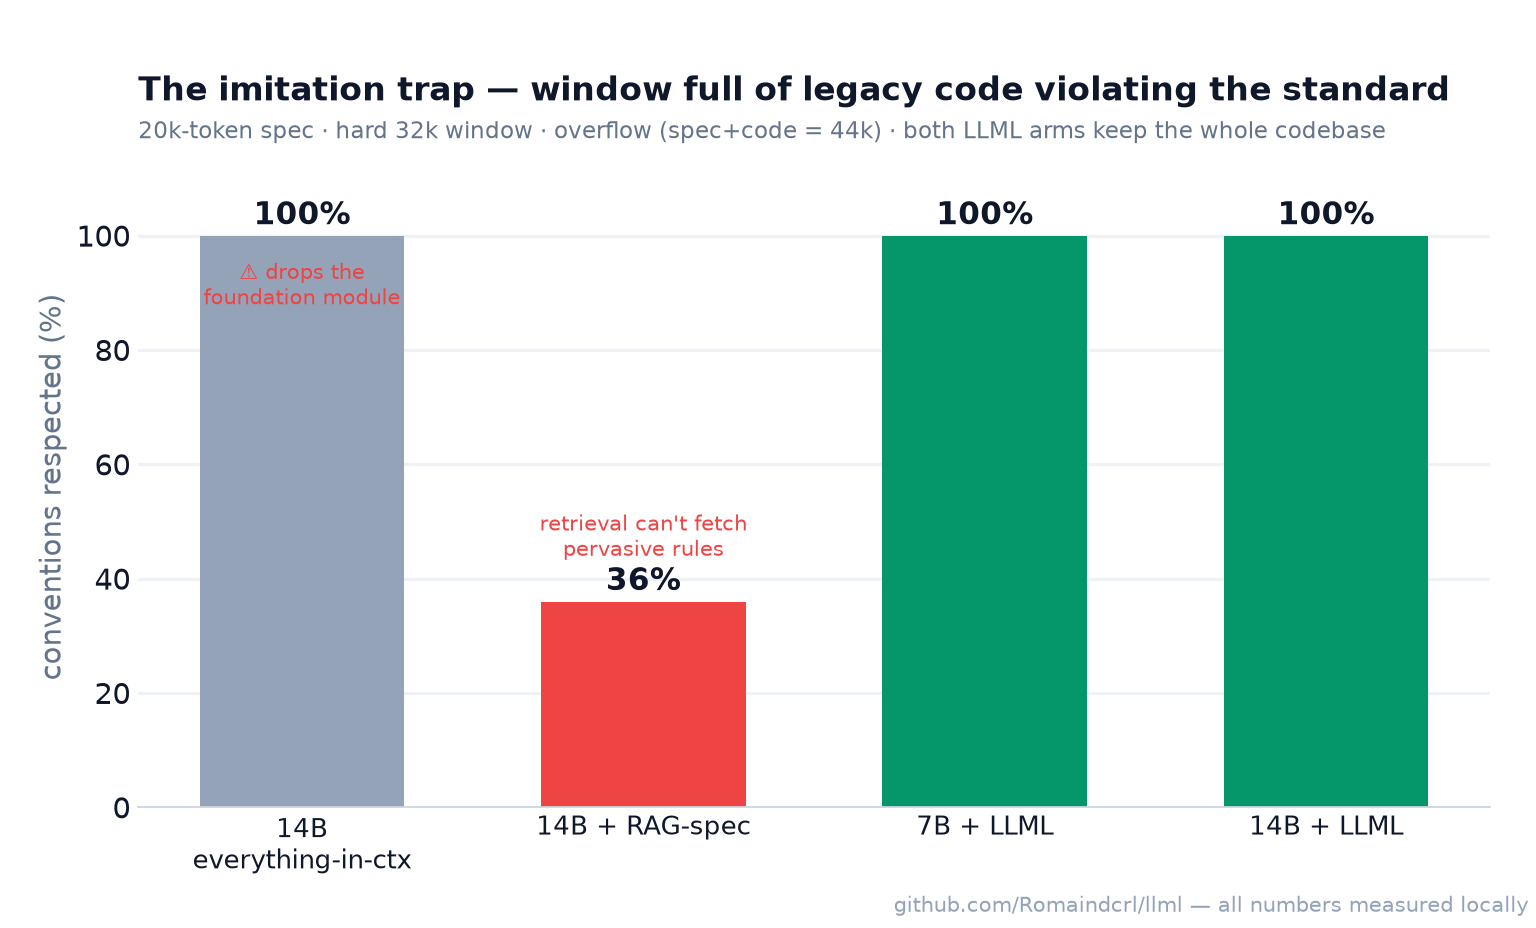
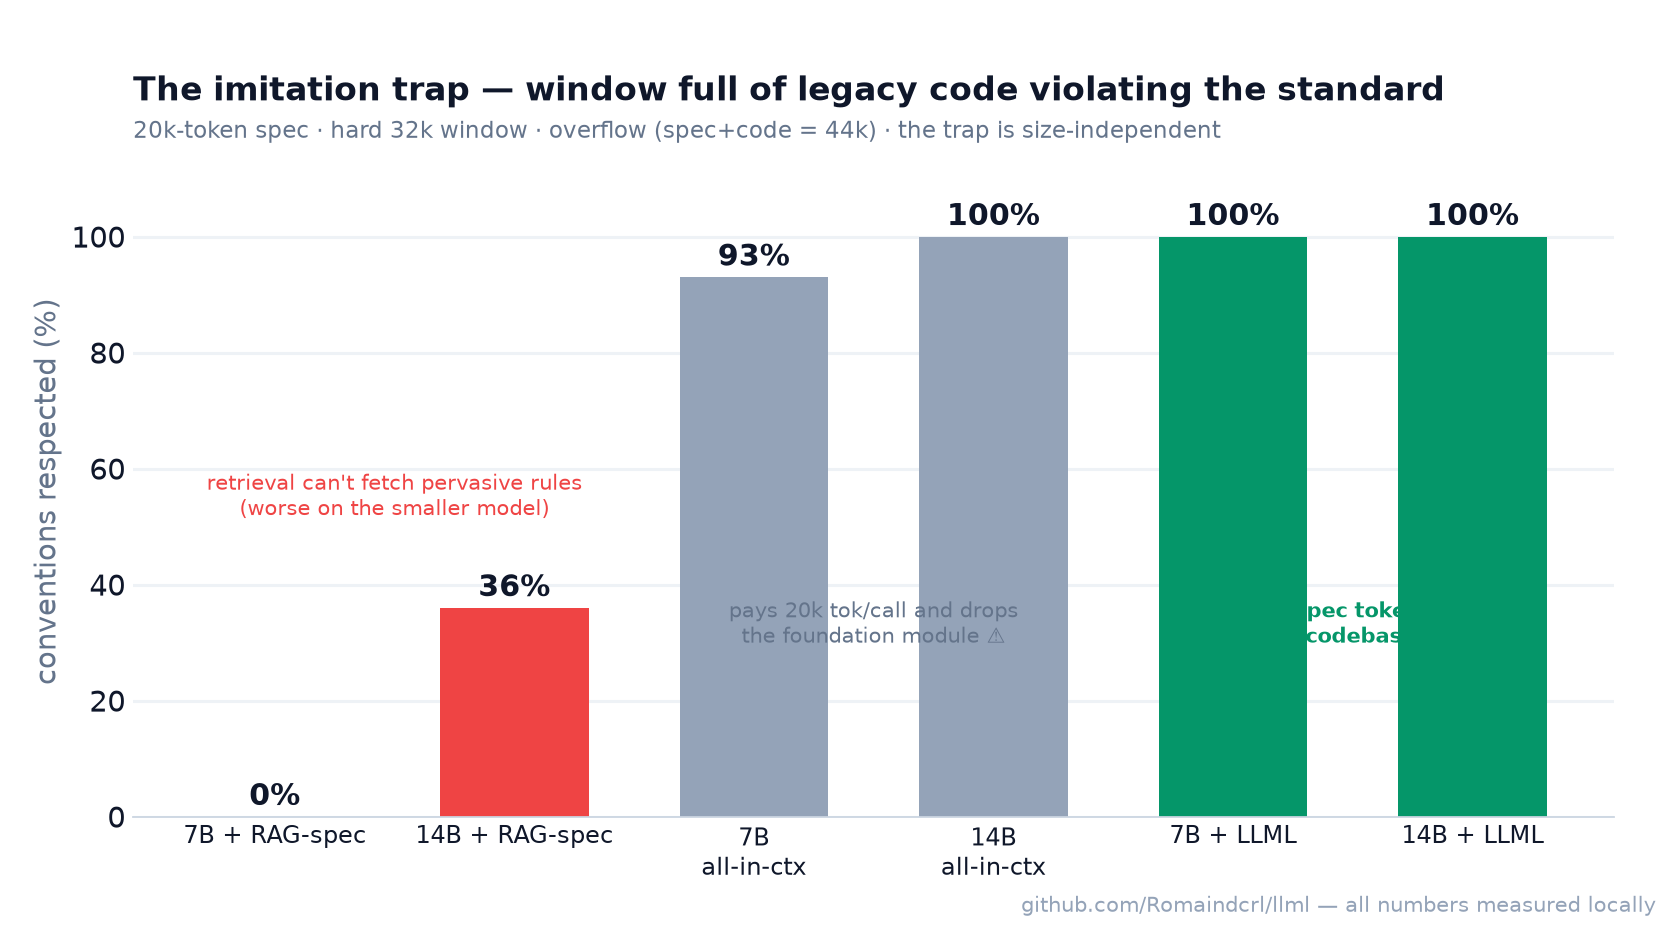
Imitation trap: 7B baselines measured (RAG 0%, all-in-ctx 93/75) — chart now shows all 6 arms; the trap is size-independent and harsher on smaller models

diff --git a/scripts/benchmark_bigctx2_7b.py b/scripts/benchmark_bigctx2_7b.py
@@ -1,0 +1,99 @@
+"""D2 complément — les bras 7B manquants dans le régime legacy (piège d'imitation).
+
+D2 avait : 7B+LLML, 14B tout-en-ctx, 14B+RAG, 14B+LLML. Il manque, pour le graphe et le
+tableau : **7B tout-en-ctx** (cahier complet prioritaire + code tronqué) et **7B + RAG-cahier**
+(extraits + code complet). Mêmes charges (8k / 24k=débordement), même scoring conv/faits/audit/
+fondation. Live : tail -f logs/benchmark_bigctx2_7b.log
+"""
+
+from __future__ import annotations
+
+import gc
+import os
+import sys
+import time
+
+_PROJ = os.path.dirname(os.path.dirname(os.path.abspath(__file__)))
+sys.path.insert(0, _PROJ)
+
+from scripts.benchmark_bigctx2 import B7, legacy_code, task_for  # noqa: E402
+from scripts.benchmark_project import FACTS, HELD, NS, WINDOW, build_spec, fit_code  # noqa: E402
+from scripts.benchmark_spec_xl import CONV, frac  # noqa: E402
+from m0.config import Config, count_tokens  # noqa: E402
+from m0.llm import make_client  # noqa: E402
+from m0.rag import RAG  # noqa: E402
+
+LOG_PATH = os.path.join(_PROJ, "logs", "benchmark_bigctx2_7b.log")
+L_LEVELS = [8000, 24000]
+_T0 = time.time()
+
+
+def log(msg=""):
+    line = f"[{time.time() - _T0:6.0f}s] {msg}"
+    print(line, flush=True)
+    with open(LOG_PATH, "a", encoding="utf-8") as f:
+        f.write(line + "\n"); f.flush()
+
+
+def _purge():
+    gc.collect()
+    try:
+        import mlx.core as mx
+        mx.clear_cache()
+    except Exception:
+        pass
+
+
+def main():
+    os.makedirs(os.path.dirname(LOG_PATH), exist_ok=True)
+    open(LOG_PATH, "w").close()
+    spec = build_spec(); spec_tok = count_tokens(spec)
+    rag = RAG(os.path.join(_PROJ, "logs", "rag_bigctx2_7b.txt")); rag.clear(); rag.add_document(spec)
+    log(f"=== D2 bras 7B manquants — legacy, cahier {spec_tok} tok, charges {L_LEVELS} ===")
+
+    cfg = Config.from_env(); cfg.backend = "mlx"; cfg.mlx_model_path = B7
+    llm = make_client(cfg); llm.set_adapter(None); llm.cfg.mlx_max_tokens = 380
+
+    SUT = ("7B tout-en-ctx", "7B + RAG-cahier")
+    agg = {(L, s): {"c": [], "f": [], "x": [], "kept": []} for L in L_LEVELS for s in SUT}
+
+    for L in L_LEVELS:
+        code = legacy_code(L)
+        for ent in HELD:
+            rm, ec = FACTS[ent]
+            task = task_for(ent)
+            # (a) tout-en-ctx : cahier complet prioritaire, code tronqué au budget
+            c_fit = fit_code(code, WINDOW - spec_tok - 700)
+            o = llm.generate(f"Cahier des charges :\n{spec}\n\nCode du projet :\n{c_fit}\n\n{task}"
+                             "\nÉcris uniquement le code Python du module.", None)
+            a = agg[(L, "7B tout-en-ctx")]
+            a["c"].append(frac(o, CONV)); a["f"].append(frac(o, [rm, ec]))
+            a["x"].append(1.0 if NS in o else 0.0); a["kept"].append(1.0 if NS in c_fit else 0.0)
+            log(f"   [L={L} {ent}] 7B-tout : conv={frac(o, CONV)*100:.0f}% faits={frac(o,[rm,ec])*100:.0f}% "
+                f"(fondation en ctx : {int(NS in c_fit)}, prompt ~{spec_tok + count_tokens(c_fit)} tok)")
+            _purge()
+            # (b) RAG-cahier : extraits + code complet
+            chunks = "\n".join(rag.topk(task, 6))
+            c_rag = fit_code(code, WINDOW - count_tokens(chunks) - 700)
+            o = llm.generate(f"Cahier (extraits) :\n{chunks}\n\nCode du projet :\n{c_rag}\n\n{task}"
+                             "\nÉcris uniquement le code Python du module.", None)
+            a = agg[(L, "7B + RAG-cahier")]
+            a["c"].append(frac(o, CONV)); a["f"].append(frac(o, [rm, ec]))
+            a["x"].append(1.0 if NS in o else 0.0); a["kept"].append(1.0 if NS in c_rag else 0.0)
+            log(f"   [L={L} {ent}] 7B-RAG  : conv={frac(o, CONV)*100:.0f}% faits={frac(o,[rm,ec])*100:.0f}%")
+            _purge()
+
+    def av(L, s, k):
+        v = agg[(L, s)][k]; return sum(v) / len(v) * 100 if v else 0.0
+    log("")
+    log("=== RÉSULTAT — bras 7B, régime legacy (rappel : 7B+LLML = 100/100 partout) ===")
+    log(f"{'L':>6} | {'méthode':16s} | conv | faits | audit | fondation")
+    for L in L_LEVELS:
+        for s in SUT:
+            log(f"{L:>6} | {s:16s} | {av(L,s,'c'):3.0f}% | {av(L,s,'f'):4.0f}% | "
+                f"{av(L,s,'x'):4.0f}% | {av(L,s,'kept'):3.0f}%")
+    log("=== FIN ===")
+
+
+if __name__ == "__main__":
+    main()

diff --git a/scripts/make_charts_v2.py b/scripts/make_charts_v2.py
@@ -84,16 +84,20 @@ def hero():
 
 
 def trap():
-    labels = ["14B\neverything-in-ctx", "14B + RAG-spec", "7B + LLML", "14B + LLML"]
-    vals = [100, 36, 100, 100]
-    cols = [SLATE, RED, EMER, EMER]
-    fig, ax = plt.subplots(figsize=(9.6, 5.8))
-    bars = ax.bar(labels, vals, color=cols, width=0.6)
+    labels = ["7B + RAG-spec", "14B + RAG-spec", "7B\nall-in-ctx", "14B\nall-in-ctx", "7B + LLML", "14B + LLML"]
+    vals = [0, 36, 93, 100, 100, 100]
+    cols = [RED, RED, SLATE, SLATE, EMER, EMER]
+    fig, ax = plt.subplots(figsize=(10.4, 5.8))
+    bars = ax.bar(labels, vals, color=cols, width=0.62)
     for b, v in zip(bars, vals):
         ax.text(b.get_x() + b.get_width() / 2, v + 2, f"{v}%", ha="center",
-                fontsize=14, fontweight="bold", color=INK)
-    ax.text(0, 88, "⚠ drops the\nfoundation module", ha="center", fontsize=9.5, color=RED)
-    ax.text(1, 44, "retrieval can't fetch\npervasive rules", ha="center", fontsize=9.5, color=RED)
+                fontsize=13.5, fontweight="bold", color=INK)
+    ax.text(0.5, 52, "retrieval can't fetch pervasive rules\n(worse on the smaller model)",
+            ha="center", fontsize=9.5, color=RED)
+    ax.text(2.5, 30, "pays 20k tok/call and drops\nthe foundation module ⚠", ha="center",
+            fontsize=9.5, color=MUTE)
+    ax.text(4.5, 30, "0 spec tokens\nwhole codebase kept", ha="center",
+            fontsize=9.5, color=EMER, fontweight="bold")
     for s in ("top", "right", "left"):
         ax.spines[s].set_visible(False)
     ax.spines["bottom"].set_color(SLATE_LT); ax.tick_params(length=0)
@@ -101,10 +105,10 @@ def trap():
     ax.set_ylabel("conventions respected (%)")
     ax.set_title("The imitation trap — window full of legacy code violating the standard",
                  fontsize=15, fontweight="bold", loc="left", pad=30)
-    ax.text(0, 1.045, "20k-token spec · hard 32k window · overflow (spec+code = 44k) · both LLML arms keep the whole codebase",
+    ax.text(0, 1.045, "20k-token spec · hard 32k window · overflow (spec+code = 44k) · the trap is size-independent",
             transform=ax.transAxes, fontsize=10.5, color=MUTE)
-    plt.xticks(fontsize=11.5, color=INK)
-    fig.subplots_adjust(bottom=0.13, top=0.82, left=0.09, right=0.97)
+    plt.xticks(fontsize=11, color=INK)
+    fig.subplots_adjust(bottom=0.12, top=0.82, left=0.08, right=0.97)
     _foot(fig)
     fig.savefig(f"{OUT}/06_imitation_trap.png", dpi=160)
     plt.close(fig)

diff --git a/BENCHMARKS.md b/BENCHMARKS.md
@@ -220,10 +220,15 @@ legacy ambient code:
 
 | L=24k (overflow) | conv | facts | foundation kept |
 |---|---|---|---|
-| 14B, everything-in-context | 100% | 100% | **0%** (mechanically dropped) |
+| 7B + RAG-spec | **0%** | 0% | 100% |
 | 14B + RAG-spec | **36%** | 100% | 100% |
+| 7B, everything-in-context | 93% | 75% | **0%** (mechanically dropped) |
+| 14B, everything-in-context | 100% | 100% | **0%** (mechanically dropped) |
 | **7B + LLML (spec in weights)** | **100%** | **100%** | **100%** |
 | **14B + LLML** | **100%** | **100%** | **100%** |
+
+The trap is **size-independent — and harsher on the smaller model** (RAG conventions: 0% on the
+7B vs 36% on the 14B; 7B arms: `benchmark_bigctx2_7b.py`).
 
 Retrieval can't fetch *pervasive* rules (they're lexically unrelated to any query) and the
 model imitates the legacy style; **spec-in-weights resists the trap on both models**. First